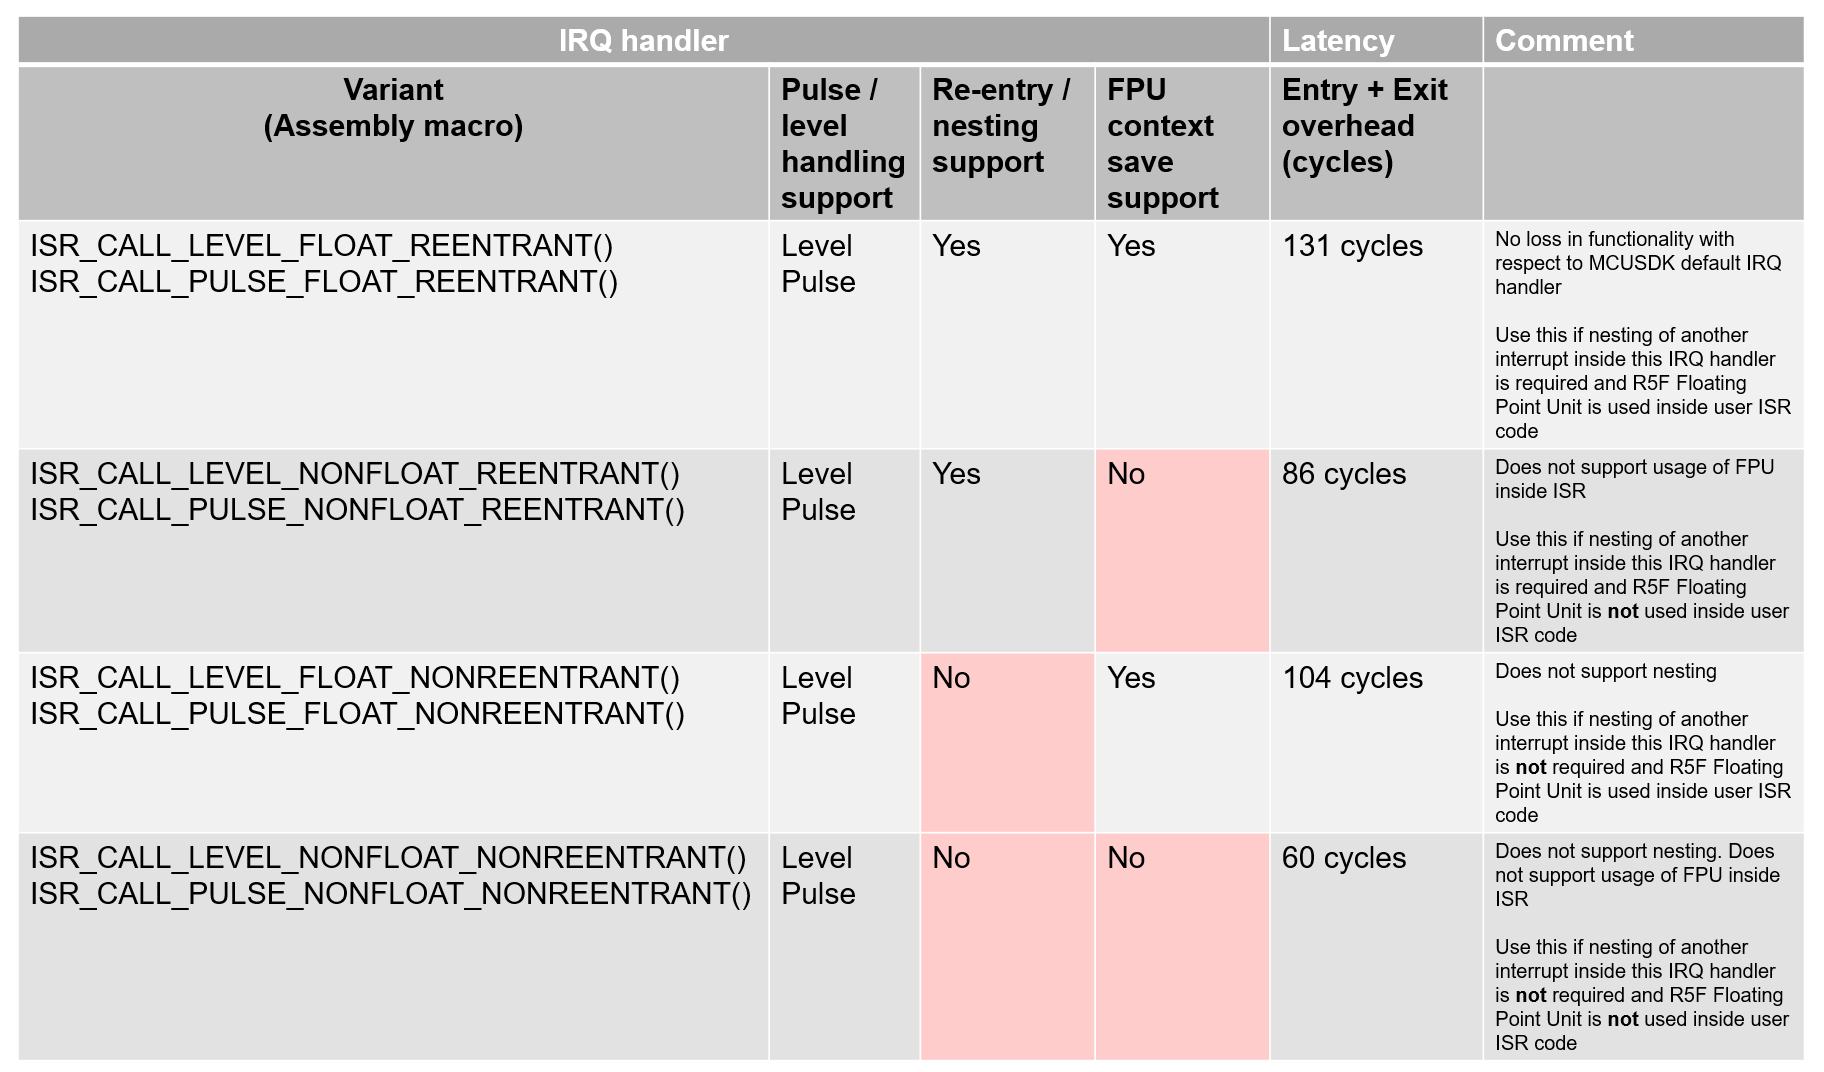
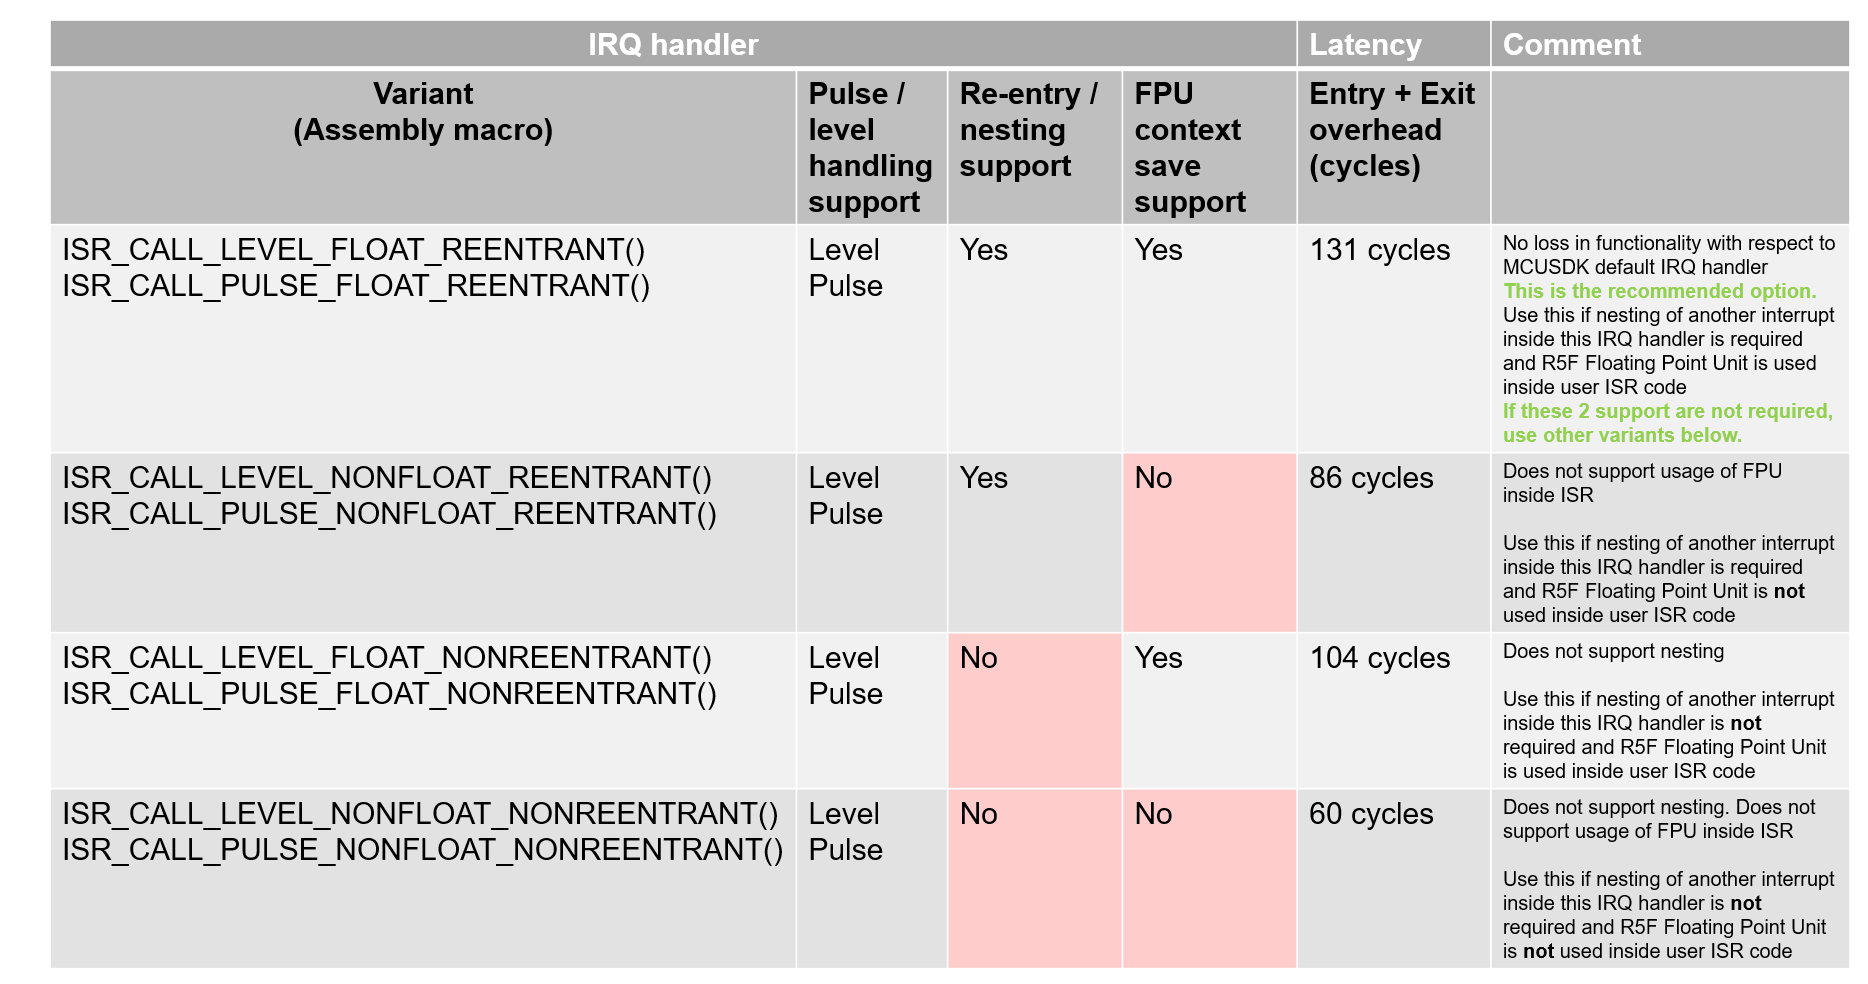
am263x: docs: Update for real time performance out of box
incorporate feedback for performance optimizations guide

Fixes: MCUSDK-9495

diff --git a/docs_src/docs/api_guide/developer_guides/optimizing_applications_with_mcu_sdk.md b/docs_src/docs/api_guide/developer_guides/optimizing_applications_with_mcu_sdk.md
@@ -5,7 +5,7 @@
 
 ## Optimizations {#CHAPTER_OPTIMIZATION}
 
-Here is a short summary of the optimizations discussed in detail in this document.
+Here is a short summary of the performance optimizations discussed in detail in this document.
 
 - \ref CHAPTER_OPTIMIZATION_SECTION_1
 - \ref CHAPTER_OPTIMIZATION_SECTION_2
@@ -13,8 +13,11 @@ Here is a short summary of the optimizations discussed in detail in this documen
 - \ref CHAPTER_OPTIMIZATION_SECTION_4
 - \ref CHAPTER_OPTIMIZATION_SECTION_5
 
+Memory optimizations
 
-### Optimize Interrupt handling {#CHAPTER_OPTIMIZATION_SECTION_1}
+- \ref CHAPTER_OPTIMIZATION_SECTION_6
+
+### Optimize Interrupt handling (IRQ/FIQ) {#CHAPTER_OPTIMIZATION_SECTION_1}
 
 \note Following optimizations are specific to ARM R5 architecture.
 
@@ -45,7 +48,7 @@ The Cortex-R5 processor implements the following exceptions:
 Interrupt Request (IRQ)
 
 The nIRQ is an input to the processor core, a low signal on the nIRQ input causes the processor to take the IRQ exception, if not masked. 
-On the Sitara MCU’s the nIRQ pin is connected to the VIM. 
+On the Sitara MCU’s the nIRQ is connected to the VIM. 
 It is usually used as “general-purpose” interrupt line and interrupt dispatching is usually handled by the VIM. 
 The Cortex-R5 processor offers a so called VIC port to supply the interrupt vector address directly to the processor, in order to reduce interrupt latency for IRQ’s. 
 
@@ -73,7 +76,7 @@ Hardware Vectored Interrupts (only IRQ)
  \image html Fig17.PNG "Hardware Vectored Interrupt Connection Scheme in ARM Cortex R5F in AM263x"
 
 
-#### Understand NORTOS IRQ handler in MCU PLUS SDK DPL
+#### Understanding NORTOS IRQ handler in MCU PLUS SDK DPL
 
 The ARM Cortex-R5 (ARMv7-R architecture) processor does not support interrupt nesting in hardware, as some Cortex-M (ARMv7-M architecture) processors do. 
 Only a two level nesting is possible when using IRQ and FIQ, where the FIQ can interrupt the IRQ.
@@ -114,10 +117,11 @@ Modified IRQ Handler Flow to Work With VIM
 \imageStyle{Fig13.PNG,width:80%}
  \image html Fig13.PNG "ARM Cortex R5 interrupt handling in MCU PLUS SDK for AM263x"
 
+The OS abstraction layer (DPL) of MCU PLUS SDK architected for networking applications introduces performance overheads (interrupt latencies). To support Real Time Control use cases the IRQ handlers are optimized, reducing software overheads down to 150ns. Use below steps to utilize the optimized IRQ handlers.
 
 #### Step by step guide for optimizations
 
-\note Please refer \ref EXAMPLES_KERNEL_DPL_LOW_LATENCY_INTERRUPT example
+\note Please refer \ref EXAMPLES_KERNEL_DPL_LOW_LATENCY_INTERRUPT example which demonstrates the steps to register a custom interrupt using optimized approach
 
 Steps to register a custom interrupt using MCU SDK (default approach)
 
@@ -135,6 +139,7 @@ Choose IRQ handler macro based on application need:
  \image html Fig16.PNG "IRQ handler macros - functionality and latency"
 
 
+For FIQ, use the default approach in MCU SDK. The Fast Interrupt operating mode has eight processor registers banked (R8 - R12, the SP, LR and the SPSR) and has the advantage that these registers do not have to be preserved or saved to the stack in order to use them in an interrupt handler. This improves interrupt latency for FIQ. In the case only one interrupt is mapped to the FIQ, the whole interrupt service handler could be placed at this address (0x1C) to further improve interrupt latency (avoiding unnecessary branches).
 
 
 
@@ -179,12 +184,13 @@ For example, in below snippet from linker.cmd file the .text.hwi is placed in TC
 \endcode
 
 
-\note Refer this link for infon on how to capture and use core trace data to visualize code profiling and coverage data in CCS. https://www.youtube.com/watch?v=4hEY0sZToUE
+\note Refer this link for info on how to capture and use core trace data to visualize code profiling and coverage data in CCS. https://www.youtube.com/watch?v=4hEY0sZToUE
 
 
 ### Optimize R5F MPU settings {#CHAPTER_OPTIMIZATION_SECTION_3}
 
 \note  Recommended R5 MPU settings for control peripherals: Device, Non-Shareable. 
+\note  MPU settings for On-Chip RAM shall not be kept shareable unless specifically intended shared region for IPC. 
 
 Modify R5F MPU configuration for the ControlSS register space to enable posted writes.
 
@@ -311,35 +317,39 @@ External memories (accessed via EMIF module)
 
 
 
+
+
 ### Optimize compiler settings {#CHAPTER_OPTIMIZATION_SECTION_4}
 
-\note Recommended optimization level to use with MCU SDK: -Os
+\note Recommended optimization level to use with MCU SDK: -Os. This option gives balance between code size and performance.
+Please note -O3 option is recommended for optimizing performance, but it is likely to increase compiler generated code size.
+Refer https://software-dl.ti.com/codegen/docs/tiarmclang/rel2_1_0_LTS/compiler_manual/using_compiler/compiler_options/optimization_options.html
 
 Choose compiler code generation settings (optimization levels O[0|1|2|3|fast|g|s|z]) according to application need.
 
 The tiarmclang compiler supports a variety of different optimization options, including:
 
--O0 - no optimization; generates code that is debug-friendly
-
--O1 - restricted optimizations, providing a good trade-off between code size and debuggability
-
--O2 or -O - most optimizations enabled with an eye towards preserving a reasonable compile-time
-
--O3 - in addition to optimizations available at -O2, -O3 enables optimizations that take longer to perform, trading an increase in compile-time for potential performance improvements
-
--Ofast - enables all optimizations from -O3 along with other aggressive optimizations that may realize additional performance gains, but also may violate strict compliance with language standards
-
--Os - enables all optimizations from -O2 plus some additional optimizations intended to reduce code size while mitigating negative effects on performance
-
--Oz - enables all optimizations from -Os plus additional optimizations to further reduce code size with the risk of sacrificing performance
-
--Og - enables most optimizations from -O1, but may disable some optimizations to improve debuggability.
+- -O0 - no optimization; generates code that is debug-friendly
+- -O1 - restricted optimizations, providing a good trade-off between code size and debuggability
+- -O2 or -O - most optimizations enabled with an eye towards preserving a reasonable compile-time
+- -O3 - in addition to optimizations available at -O2, -O3 enables optimizations that take longer to perform, trading an increase in compile-time for potential performance improvements
+- -Ofast - enables all optimizations from -O3 along with other aggressive optimizations that may realize additional performance gains, but also may violate strict compliance with language standards
+- -Os - enables all optimizations from -O2 plus some additional optimizations intended to reduce code size while mitigating negative effects on performance
+- -Oz - enables all optimizations from -Os plus additional optimizations to further reduce code size with the risk of sacrificing performance
+- -Og - enables most optimizations from -O1, but may disable some optimizations to improve debuggability.
 
 
 
 Offload floating point calculations to R5 FPU
 
--mfpu=vfpv3-d16
+- Use -mfpu=vfpv3-d16
+
+
+Decide Thumb vs ARM mode based on profiling
+ - Compiler option -mthumb
+  - Instruct the compiler to generate THUMB mode instructions
+ - Compiler option -marm
+  - Instruct the compiler to generate ARM mode instructions
 
 
 ### Optimize application code {#CHAPTER_OPTIMIZATION_SECTION_5}
@@ -349,6 +359,7 @@ Offload floating point calculations to R5 FPU
 3. Use MCU SDK R5 trig math library functions for Trigonometric calculations
 4. Contiguous allocation of ADC results to take advantage of 32-it read to get two 16-bit ADC results
 5. Program specific parts of the control loop using R5F assembly to get greater control over the access pattern and sequence to achieve better utilization of R5F cycles.
+6. IPC read buffers to be allocated from memory closer to CPU. R5F TCM, ICSS DMEM, M4 TCM etc
 
 
 SoC hardware features:
@@ -388,6 +399,13 @@ The target ports are based on number of ADCs in the design.
 Each initiator can independently access any ADC register without any arbitration.
 
 
+### Memory optimization {#CHAPTER_OPTIMIZATION_SECTION_6}
 
-
-
+Code Size optimizations
+- The -Oz option is recommended for optimizing code size.
+- The -O3 option is recommended for optimizing performance, but it is likely to increase compiler generated code size.
+- ARM/ Thumb
+ - -mthumb
+  - Instruct the compiler to generate THUMB mode instructions (16-bit THUMB or T32 THUMB depending on which processor variant is selected) for current compilation
+ - -marm
+  - Instruct the compiler to generate ARM mode instructions for current compilation

diff --git a/docs_src/docs/api_guide/developer_guides/optimizing_real_time_control_applications.md b/docs_src/docs/api_guide/developer_guides/optimizing_real_time_control_applications.md
@@ -61,13 +61,13 @@ Following sections show optimizations relevant for each operation performed in t
 
 ### Operation 1: Latch and respond to interrupt {#CHAPTER_OPERATION_SECTION_1}
 
-\note Latency to latch and repond to interrupt from ControlSS is 29 cycles (400MHz R5F core clock).
+\note Latency to latch and repond to interrupt from ControlSS is 29 cycles (worst case) at 400MHz R5F core clock.
 
 This latency depends on
 1. Propagation of interrupt from peripheral to R5F. This is predominantly dependent on hardware latencies.
-2. Instruction under execution in R5F. Worst case scenario is when R5F starts executing a multi-cycle instruction and unable to respond to the interrupt. Example: memory load instructions (from OCRAM) when expecting ADC interrupt (background loop).
+2. Instruction under execution in R5F. Worst case scenario is when R5F starts executing a multi-cycle instruction and unable to respond to the interrupt. Example: a memory load instruction (from OCRAM) under execution in background loop or a low priority task when expecting an ADC interrupt
 
-For example: 
+Optimization options: 
 1. ADC interrupt
  - Use Early interrupt feature of ADC to triggers R5F interrupt ahead of completion of ADC conversion. Part of interrupt latency can be absorbed in ADC conversion latency
 2. EPWM interrupt
@@ -78,7 +78,7 @@ For example:
 
 ### Operation 2: R5F Context save {#CHAPTER_OPERATION_SECTION_2}
 
-\note Latency to save context is 53 cycles (400MHz R5F core clock) in worst case.
+\note Latency to save context is 53 cycles (best case) at 400MHz R5F core clock.
 
 This latency depends on 
 1. Saving/preserving the context of interrupted task
@@ -101,7 +101,7 @@ Refer \ref CHAPTER_OPTIMIZATION for list of optimization options and trade-offs 
 
 ### Operation 3: R5F read accesses to sensed inputs {#CHAPTER_OPERATION_SECTION_3}
 
-\note Latency to read inputs (one 16-bit ADC result) is 18 cycles (400MHz R5F core clock)
+\note Latency to read inputs (one 16-bit ADC result) is 18 cycles (best case) at 400MHz R5F core clock
 
 This latency depends on 
 1. Hardware latency. ControlSS peripheral register read access
@@ -118,7 +118,7 @@ Optimization options and trade-offs:
  - Refer below the code used to split the 32 bit result to 2 16 bit values
 - For conversion to floating point, use R5 FPU.
 - Write to TCM (1 cycle) instead of L2 OCRAM
-- Alternate approach is to use DDMA to bring the ADC results to TCM. This can absorb overheads for R5 to read ADC results.
+- Alternate approach is to use DMA to bring the ADC results to TCM. This can absorb overheads for R5 to read ADC results.
 
 \imageStyle{Fig7.PNG,width:80%}
  \image html Fig7.PNG "ADC read access optimization"
@@ -127,6 +127,7 @@ Optimization options and trade-offs:
 
 \note Execution time of the control algorithm is specific to application use case. 
 	For example: Field Oriented Control computations for AM263x traction inverter executes for 985ns. Refer application note. SPRAD32
+    https://www.ti.com/lit/an/sprad32/sprad32.pdf
 
 This depends on 
 1. Number of inputs and outputs required. For example: number of channels, phases, stages
@@ -140,11 +141,11 @@ Optimization options and trade-offs:
 - \ref CHAPTER_OPTIMIZATION_SECTION_5
 
 \imageStyle{Fig8.PNG,width:80%}
- \image html Fig8.PNG "FOC computation execution time"
+ \image html Fig8.PNG "Execution time for FOC computation from SPRAD32"
 
 ### Operation 5: R5F writes to outputs {#CHAPTER_OPERATION_SECTION_5}
 
-\note Throughput to write outputs (For example: PWM compare values) is 2 cycles per write (400MHz R5F core clock)
+\note Throughput to write outputs (For example: PWM compare values) is 2 cycles per write (best case) at 400MHz R5F core clock. Refer section CHAPTER_OPTIMIZATION_SECTION_3 on the settings to achieve this throughput.
 
 This latency depends on 
 1. Hardware latency (write access latency) 
@@ -156,8 +157,8 @@ This latency depends on
 Optimization options and trade-offs:
 
 - \ref CHAPTER_OPTIMIZATION_SECTION_4
- - Setup the PWM region as device memory (not strongly ordered)
-- Store all the PWM data in TCM consecutively for quick access
+- Setup the PWM region as device memory (not strongly ordered). Refer section CHAPTER_OPTIMIZATION_SECTION_3. This helps to achiee 2 cycle write throughput.
+- Store all the PWM data (compare values for modulation) in TCM consecutively for quick access
 - Interleave reads and writes (interleave load and store instructions). TI ARM CLANG (used by SDK) supports this optimization
  - When the PWM writes are posted writes, the 2nd unused cycle of store instruction can be used for next read operation. This reduces overall write throughput to 2 cycles
 

diff --git a/docs_src/docs/api_guide/examples/kernel/low_latency_interrupt.md b/docs_src/docs/api_guide/examples/kernel/low_latency_interrupt.md
@@ -4,12 +4,12 @@
 
 # Introduction
 
-This examples demonstrates the performance and features of R5F IRQ handler in DPL of MCU_PLUS_SDK
+This examples demonstrates the performance and features of optimized R5F IRQ handler in DPL of MCU_PLUS_SDK
 
-1. Interrupt Latency
-2. Nesting/Re-entrancy support and floating point (FPU) save/restore support
+- Part 1 demonstrates Interrupt Latency
+- Part 2 demsontrates Nesting/Re-entrancy support and floating point (FPU) save/restore support
 
-Refer \ref PERFORMANCE_OPTIMIZATIONS_GUIDE
+Also refer \ref PERFORMANCE_OPTIMIZATIONS_GUIDE
 
 
 \imageStyle{am263_dpl_low_latency_interrupt_a.png,width:80%}
@@ -31,7 +31,7 @@ This example uses following assembly macros for IRQ handling. These are defined 
 - ISR_CALL_LEVEL_FLOAT_REENTRANT and ISR_CALL_PULSE_FLOAT_REENTRANT
  - Use this if nesting of another interrupt inside this IRQ handler is required and R5F Floating Point Unit is used inside user ISR code
 
-Refer the page \ref CHAPTER_OPTIMIZATION_SECTION_1 for steps to register custom interrupt using above macros.
+Refer the page \ref CHAPTER_OPTIMIZATION_SECTION_1 for steps to register custom interrupt using above macros and expected latency (cycles) improvements.
 
 
 Benchmarks:
